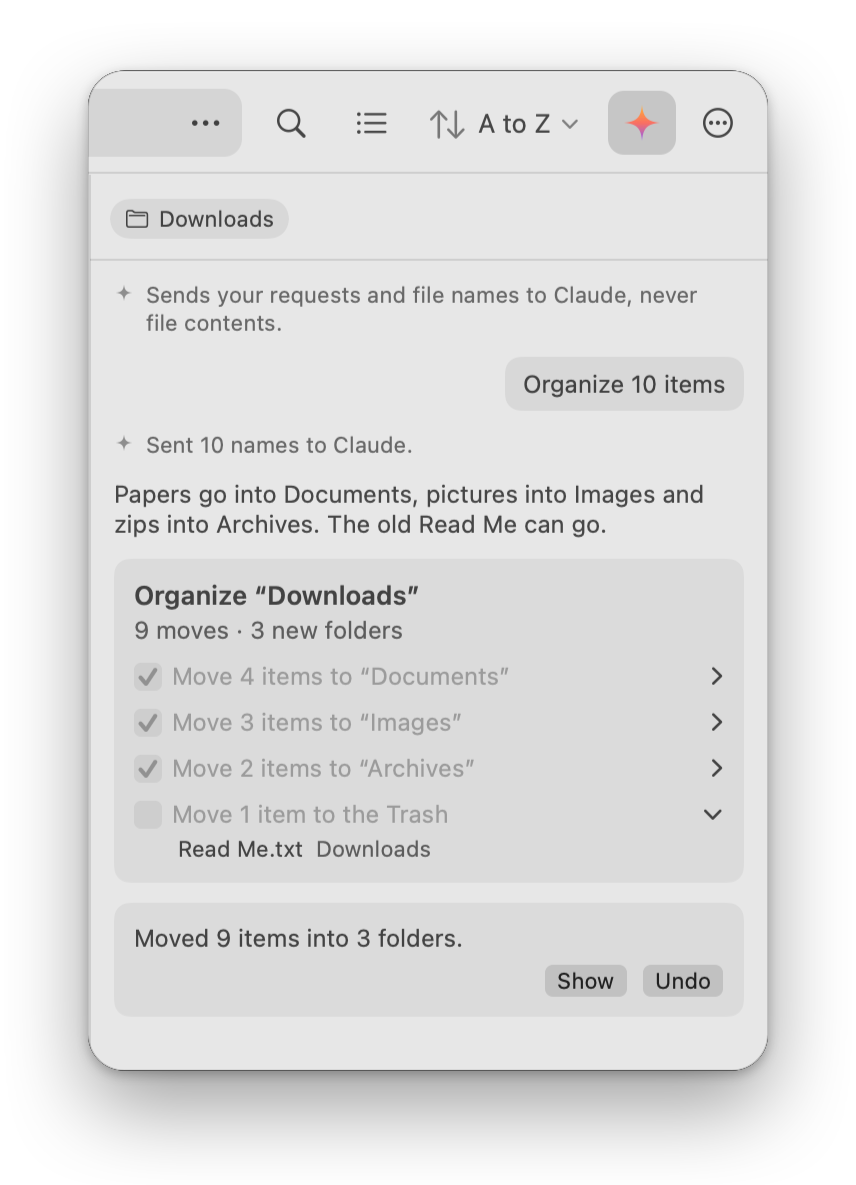
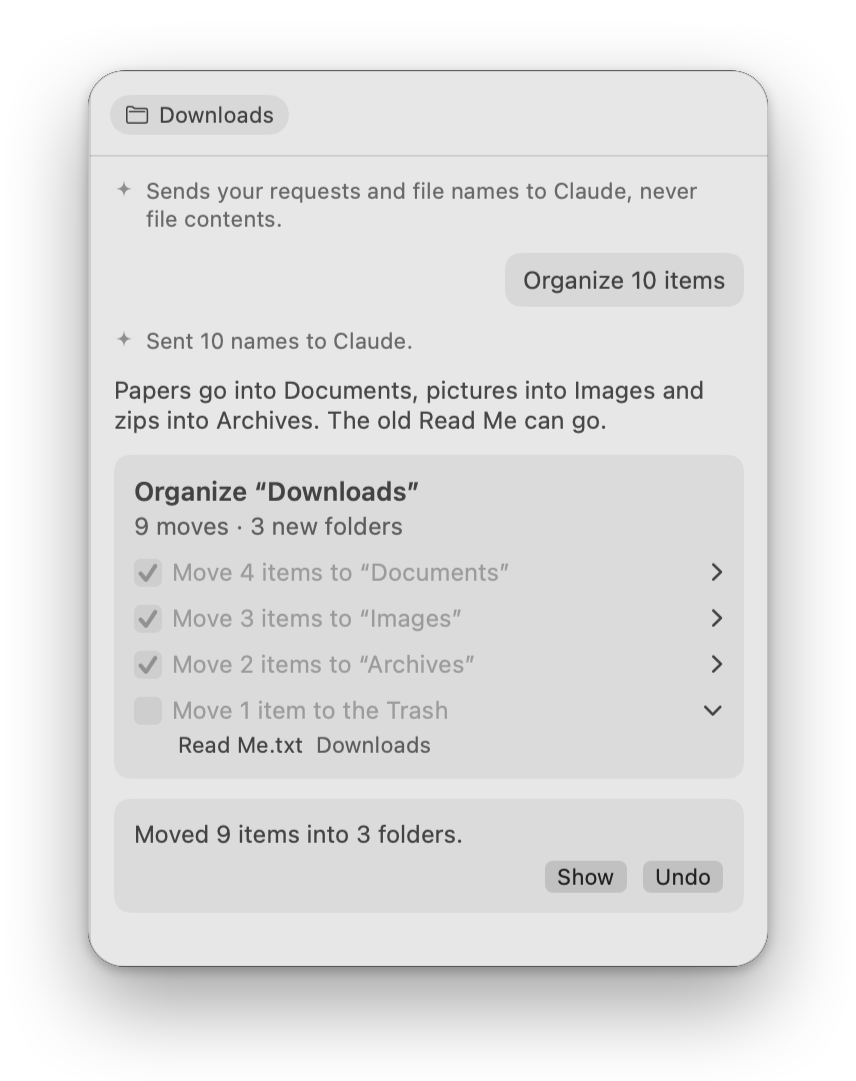
README: Done opens the panel, fall invoices in AI search, plan crops below the header, no-Trash limit, keychain item name and ai.json key builds; plain run 4 notes and inline reasons

diff --git a/scripts/readme/make_demo_home.swift b/scripts/readme/make_demo_home.swift
@@ -137,7 +137,7 @@ write("""
 write("Ideas\n\n1. A calmer header\n2. Folders apart from files in Recent\n3. Smooth list animations\n", to: "Documents/Ideas.txt")
 write("Month,Design,Engineering,Research\nJanuary,1200,3400,800\nFebruary,1350,3600,950\nMarch,1500,3550,1020\n", to: "Documents/Budget 2027.csv")
 let invoices = folder("Documents/Invoices")
-for (index, month) in ["August", "September", "October"].enumerated() {
+for (index, month) in ["September", "October", "November"].enumerated() {
     pdf(title: "Invoice \(1042 + index)", subtitle: "\(month) 2026 · Studio Maple", accent: 0x5E5CE6, pages: 1, chart: false,
         to: invoices.appendingPathComponent("Invoice \(month).pdf"))
 }
@@ -215,6 +215,10 @@ let pinnedDates: [String: Date] = [
     "Documents/Product Roadmap.pdf": day(1, 11, 5),
     "Downloads/Concert Poster.jpg": day(2, 19, 30),
     "Downloads/Boarding Pass.pdf": day(3, 7, 55),
+    // The fall's invoices, each dated in step with its name, for AI search's picture.
+    "Documents/Invoices/Invoice November.pdf": day(2, 10, 15),
+    "Documents/Invoices/Invoice October.pdf": day(25, 14, 30),
+    "Documents/Invoices/Invoice September.pdf": day(48, 9, 20),
 ]
 let homePath = home.resolvingSymlinksInPath().path
 if let walker = manager.enumerator(at: home, includingPropertiesForKeys: nil) {

diff --git a/README.md b/README.md
@@ -42,7 +42,7 @@ Helm shows the plan before anything happens: each group of changes, with a tick 
 
 Turn on the spark in the search field and describe the file. The model plans the searches, Helm runs them on your Mac, and the status bar says how it read your words. Point at a result to see why it matched.
 
-<img src="docs/images/ai-search-dark.png" alt="AI search from Home for the invoices from this fall: invoice PDFs in the grid, and the status bar reading how the request was understood">
+<img src="docs/images/ai-search-dark.png" alt="AI search from Home for the invoices from this fall: the November, October and September invoice PDFs, newest first, and the status bar reading 3 matches, PDF, “invoice”, modified 15 Sep to 14 Nov">
 
 ## How it works
 
@@ -79,13 +79,14 @@ Helm connects only to the AI provider you choose, and only while AI mode is on. 
 | Ollama, LM Studio | Loopback, `127.0.0.1`, on this Mac. Ports 11434 and 1234 unless you change them |
 | Other | The https address you type |
 
-**Keys.** Each key is saved in your Mac's keychain, never in a file, a log or a picture. Removing the app doesn't remove them: click **Remove Key** in Settings › AI first, or delete the `com.helm.filemanager.ai-key` items in Keychain Access. Helm is signed ad hoc, so macOS may ask for your keychain password after an update.
+**Keys.** Each key is saved in your Mac's keychain, never in a file, a log or a picture. Removing the app doesn't remove them: click **Remove Key** in Settings › AI first, or delete the items named **Helm AI key** in Keychain Access (their place is `com.helm.filemanager.ai-key`). Helm is signed ad hoc, so macOS may ask for your keychain password after an update.
 
 Keys are made on each provider's site: [Claude](https://platform.claude.com), [OpenAI](https://platform.openai.com/api-keys), [Gemini](https://aistudio.google.com/apikey) and [Grok](https://console.x.ai). On Gemini's free tier, Google may use what you send to improve its products.
 
 **Limits.**
 
 - **No downloads in cloud folders.** A file that isn't downloaded is left out of any change that needs its contents, and Helm says how many.
+- **Places with no Trash**, such as some servers: copies and new folders there can't be undone, and the plan says so before you press Apply.
 - **Small local models** can miss files in big folders. Many load a small context by default.
 - **A mirrored cloud folder with no shortcut reads as This Mac.** A sync app that keeps a plain folder in step and marks nothing, such as an older Dropbox, isn't recognized, so the plan won't say that changes sync.
 - **Folders outside the home folder and the volumes** can't be used, such as `/opt` or `/usr/local`. AI mode works in your home folder, on disks under `/Volumes`, and in the Shared folder.
@@ -103,7 +104,7 @@ What Helm keeps stays on your Mac, in `~/Library/Application Support/Helm`:
 | `session.json` | Your windows and tabs, only while **Reopen windows and tabs** is on. |
 | `bookmarks.json`, `stars.json`, `sidebar.json`, `tag-catalog.json` | Your sidebar and tags. A star or bookmark you remove leaves nothing in them. |
 | `view-options.json` | Views you set for particular folders. |
-| `ai.json` | AI mode's provider, models, ports and the address you typed for Other. Never a key, a folder or a conversation. |
+| `ai.json` | AI mode's provider, models, ports, the address you typed for Other, and which build of Helm saved each key. Never a key, a folder or a conversation. |
 | `trash-origins.json` | Where trashed items came from, for Put Back. A record goes when its item leaves the Trash through Helm, or at Helm's next launch once it sees the item is gone. Without Full Disk Access Helm can't look in the Trash, so a Trash emptied in Finder leaves its records, up to 1,000. |
 
 Settings live in `~/Library/Preferences/com.helm.filemanager.dev.plist`. To remove everything, first click **Restore Finder** in Settings › General and turn off **Show next to Finder in the Dock** and **Open at login**. Click **Remove Key** in Settings › AI. Then quit Helm and delete that file and the folder above.
@@ -127,7 +128,7 @@ Helm is an early preview for macOS 14 Sonoma or later, on Apple silicon or Intel
 3. **Drag Helm to Applications.** Open the disk image and drag Helm onto the Applications folder beside it, then eject the disk image.
 4. **Open it the first time.** Helm isn't notarized yet, so macOS stops it once. On macOS 15 and later, click **Done**, open **System Settings › Privacy & Security**, scroll to **Security**, click **Open Anyway** next to the note about Helm, and confirm with your password. On macOS 14, Control-click Helm in Applications, choose **Open**, then **Open** again. [Why it isn't notarized](docs/RELEASING.md#why-helm-isnt-notarized-yet).
 5. **Set it up.** Helm opens one setup screen. Leave **Use Helm instead of Finder** and **Full Disk Access** checked and click **Set Up**, or click **Not Now** to change nothing. Opened from the disk image, Helm offers to move itself to Applications first. **Help › Set Up Helm…** brings the screen back.
-6. **Turn on AI mode**, if you want it. The AI Mode screen comes next: switch it on, pick a provider, paste your key or start Ollama or LM Studio, and click **Done**. Then press the spark at the top right to open the panel. Close the screen any other way and AI mode stays off.
+6. **Turn on AI mode**, if you want it. The AI Mode screen comes next: switch it on, pick a provider, paste your key or start Ollama or LM Studio, and click **Done**. The panel opens. Close the screen any other way and AI mode stays off.
 
 Helm is signed ad hoc, so macOS treats each new version as a new app. After an update, open it as in step 4 again, and turn Full Disk Access back on: remove Helm from the list with − and add it back with +.
 

diff --git a/docs/handoff/MAC_RUN_4.md b/docs/handoff/MAC_RUN_4.md
@@ -2,7 +2,7 @@
 
 **Status: Helm is now an agentic file manager. AI mode is built, checked on fixtures with a scripted model, and off until turned on. No real provider, key, cloud folder or server was used, and no person has tried it yet; the list under "Needs Huseyn's Mac" is all not verified. The version is 0.2. Nothing was pushed, installed or released.**
 
-Run on 2026-11-12 to 14, on the branch `agentic/merge` in a scratch worktree. Huseyn's words and the choices made for him are in [`OWNER_RULINGS.md`](OWNER_RULINGS.md#ai-mode-mac-run-4-2026-11-12-and-13).
+Run on 2026-11-12 to 14, on the branch `agentic/merge`. Huseyn's words and the choices made for him are in [`OWNER_RULINGS.md`](OWNER_RULINGS.md#ai-mode-mac-run-4-2026-11-12-and-13).
 
 ## What Huseyn asked
 
@@ -29,7 +29,7 @@ Run on 2026-11-12 to 14, on the branch `agentic/merge` in a scratch worktree. Hu
 - **Plans:** the model proposes, Helm checks every step, and the card shows each group with a tick and its full list. Trash, and changes that reach a place that syncs or is shared, start unticked. Apply runs through Helm's own operations, so conflicts keep both, removals go to the Trash, and one Undo puts it all back. Stop works between two steps.
 - **Remote and cloud folders:** one classifier names the place on the chip and in the plan's notes. Every agent read and every Apply runs with macOS's downloads switched off, so nothing is fetched.
 - **AI search:** the field's spark turns it on. The model plans up to six searches, Helm runs them on the Mac and asks the model to rank the matches. Each result's tooltip says why it matched.
-- **The AI Mode screen** after setup, and **Settings › AI**, sharing one model. Done is the only way to leave AI mode on.
+- **The AI Mode screen** after setup, and **Settings › AI**, sharing one model. Done is the only way to leave AI mode on, and it opens the panel in the window in front.
 - **One view button** in place of the Grid and List segments.
 - **Privacy checks** for the new promise: network code in one file, four web addresses, and a binary check that allows only the listed URL-loading calls and addresses.
 - **The README**, rewritten agentic first, with 17 pictures retaken from scripted background runs and a banner and spark drawn by `scripts/readme/make_brand.swift` from the unchanged app icon.
@@ -40,21 +40,21 @@ All on this Mac, on fixtures, with Helm's windows invisible and its networking b
 
 | Check | Result |
 |---|---|
-| `swift test`, whole suite, after the last interface fixes (67cba42) | 2,902 tests. One failure under load, `testCutInOneWindowAndPasteInAnotherMoves`, passed twice alone |
-| `HelmAgentTests` alone, after the live wiring | 532 tests, 0 failures; 536 after the review fixes |
+| `swift test`, whole suite, after the last fixes | 2,907 tests. One failure under load, `testRenameAndTrashInsideAnOpenFolderKeepASelection`, passed alone |
+| `HelmAgentTests` alone, after the live wiring | 532 tests, 0 failures; 536 after the security fixes |
 | Gate, `scripts/rebuild/run_all.sh` (da68a5d) | exit 0, every check passes, 2,295 portable tests, `HelmAgent` built and its tests run |
 | `bash scripts/static_checks.sh` | 434 Swift files, 0 errors; privacy check, 439 files, 0 problems |
 | Script tests | 51 in `scripts`, 37 in `scripts/rebuild` |
-| Full smoke, Debug | 1,788 checks passed. Two thumbnail time limits failed under load and passed alone |
+| Full smoke, Debug, after the last fixes | 1,795 checks passed, none failed |
 | Smoke with the shipped wiring and AI mode off (`HELM_SMOKE_AGENT=live`) | 1,544 checks passed; no model client was built |
 | Smoke with the shipped wiring and AI mode on (`HELM_SMOKE_AGENT=denied`) | Passed: the sandbox stopped HelmDev at its first request, to Ollama on 127.0.0.1 |
 | Release build (`make_release.sh`, ad hoc) and `check_binary_privacy.sh` | All nine checks pass: 4 provider addresses, 15 URL session calls, all listed, no build paths |
 | Full smoke on the Release build | 1,788 checks passed; the only failure is the known 14-point band (run 3, Open 6) |
-| Final review: security, privacy and product, each with a second reader | 17 findings kept; the one must and 11 shoulds fixed, the rest below |
-| Interface review on both SDKs | 60 findings, 34 fixes; 31 shown working by a picture or a test. The three dots are whole at every width from 640 to 1,600 points, light and dark |
+| Security, privacy and product | 17 problems found: 12 fixed, the rest under Open |
+| The interface, every AI mode state on both SDKs | 60 problems found and 34 fixed; 31 of the fixes shown working by a picture or a test. The three dots are whole at every width from 640 to 1,600 points, light and dark |
 | README pictures (`make_readme_images.sh`) | All 17 taken in the background with the network blocked, every step passing, and each picture looked at: fixture names only |
 
-The pictures' run also checks AI mode end to end: the AI Mode screen connects with a stand-in key, the panel's three suggestions read "Organize 10 items", the plan reads "9 moves · 3 new folders" with the Trash group off, Apply moves 9 items, Undo puts every file back, and AI search gives Invoice October.pdf the reason "Name has “invoice” · PDF".
+The pictures' run also checks AI mode end to end: the AI Mode screen connects with a stand-in key, the panel's three suggestions read "Organize 10 items", the plan reads "9 moves · 3 new folders" with the Trash group off, Apply moves 9 items, Undo puts every file back, and AI search finds the three fall invoice PDFs, newest first, and gives Invoice October.pdf the reason "Name has “invoice” · PDF".
 
 ## Needs Huseyn's Mac
 

diff --git a/docs/handoff/OWNER_RULINGS.md b/docs/handoff/OWNER_RULINGS.md
@@ -166,29 +166,29 @@ What was built and checked is in [`MAC_RUN_4.md`](MAC_RUN_4.md).
 
 ### Delegated choices in run 4
 
-Huseyn can overrule any of these. The reasons are in the design notes of the run.
+Huseyn can overrule any of these. Each one's reason is in its last column.
 
 | Topic | Choice | Why |
 |---|---|---|
-| Off by default | **AI mode is off until turned on, and no network client exists while it's off.** | Helm's promise becomes: it connects only to the provider you chose, and only while AI mode is on. |
-| Separate base | **`HelmAgent` can reach the network but can't change or open a file. HelmUI applies plans.** | The module that talks to a model has no way to touch the disk. |
+| Off by default | **AI mode is off until turned on, and no network client exists while it's off.** | Helm then connects only to the provider you chose, and only while AI mode is on. |
+| Separate base | **`HelmAgent` can reach the network but can't change or open a file. HelmUI applies plans.** | The module that talks to a model can't touch the disk. |
 | Keys | **The login keychain, one key per provider and host.** | A changed `ai.json` can't send a saved key to another host. |
 | What is sent | **Names and details only. Reading inside files is not built.** | Contents never leave the Mac. |
-| Folders | **The folder on show plus up to seven added ones, inside the home folder, `/Volumes` or the Shared folder. Added folders aren't saved.** | An allow list can't miss a system place, and nothing becomes standing access. |
+| Folders | **The folder on show plus up to seven added ones, inside the home folder, `/Volumes` or the Shared folder. Added folders aren't saved.** | An allow list can't miss a system place or leave standing access. |
 | Tools | **Three: list a folder, find items, propose changes. Items are named by ids Helm issues, never by path.** | No path parsing and no escapes. |
-| Plans | **Nothing changes until Apply. Trash, and changes that reach a place that syncs or is shared, start unticked. Conflicts keep both. No delete, no shell, no web tool. 1,000 changes at most.** | Nothing is destroyed or overwritten, and every change can be seen first. |
+| Plans | **Nothing changes until Apply. Trash, and changes that reach a place that syncs or is shared, start unticked. Conflicts keep both. No delete, no shell, no web tool. 1,000 changes at most.** | Nothing is destroyed or overwritten unseen. |
 | Undo | **One Apply is one Undo. An undone plan can't be redone.** | A redo would run the plan again without Apply's checks. |
-| Cloud folders | **Never download. Files that aren't downloaded are left out, with a count.** | A wrong guess fails with nothing fetched. See question 1 in `MAC_RUN_4.md`. |
+| Cloud folders | **Never download. Files that aren't downloaded are left out, with a count.** | A wrong guess then fails with nothing fetched (question 1 in `MAC_RUN_4.md`). |
 | Panel | **A column 340 points wide under the header, shut at every launch. Opening it hides the sidebar first, then widens the window if the files need room.** | The header and today's layout stay as they were. |
-| Spark | **Opens the panel when a model is ready, and the AI Mode screen otherwise.** | One door for "not ready". |
-| Commands | **`/add` and `/clear`. A path typed alone adds a folder. A server address gets one Connect line and goes to macOS.** | Two commands cover it; macOS does the sign-in. |
+| Spark | **Opens the panel when a model is ready, and the AI Mode screen otherwise. Done on that screen opens the panel.** | One door for "not ready". |
+| Commands | **`/add` and `/clear`. A path typed alone adds a folder. A server address gets one Connect line and goes to macOS.** | Two commands cover it, and macOS does the sign-in. |
 | Suggestions | **Three, worked out on the Mac with no model: Organize, Move everything to…, Copy everything to…** | Huseyn's three examples, shown whenever the panel opens. |
 | AI search | **Two model calls at most. The model plans searches, Helm runs them, and the reasons are facts Helm writes, shown as each result's tooltip.** | A hostile file name can only reorder results. |
 | Consent line | **"Sends your requests and file names to {destination}, never file contents."** On the AI Mode screen, in Settings and at the top of each thread. | One sentence says what is sent and to whom. |
 | Claude | **No fallback model and no beta header.** | The person picked the model. |
-| OpenAI's first model | **`gpt-6-astra`.** | The vendor's stated starting point. One constant to change. |
+| OpenAI's first model | **`gpt-6-astra`.** | It's the vendor's stated starting point, and one constant to change. |
 | Model menu | **The panel shows the model's name, which opens Settings › AI.** | Choosing a model in the panel would need a new request path. |
-| Version | **0.2.** | Huseyn named no other. The About line still reads "Finder underneath, Nautilus on top." |
+| Version | **0.2.** The About line still reads "Finder underneath, Nautilus on top." | Huseyn named no other. |
 
 ## Ruled but not built yet
 

diff --git a/docs/releases/0.2.md b/docs/releases/0.2.md
@@ -1,7 +1,7 @@
 Helm is now an agentic file manager. Ask it to organize, move and find your files. Nothing changes until you press Apply.
 
 - **AI mode**, off until you turn it on. The spark at the top right opens the AI panel beside your files, with three suggestions for the folder on show.
-- **Plan, then Apply.** Every change shows first, in groups you can untick. Moving to the Trash starts unticked. One Undo puts everything back.
+- **Plan, then Apply.** Every change shows first, in groups you can untick. Moving to the Trash starts unticked. One Undo puts everything back, except copies and new folders where there is no Trash.
 - **Find with AI.** Describe a file in the search field. The model plans the searches, and Helm runs them on your Mac.
 - **Your choice of model.** Claude, OpenAI, Gemini and Grok with your own key, Ollama and LM Studio on your Mac, or any OpenAI-compatible API.
 - **Only the folders you give it.** The folder on show, plus any you add with `/add` or a drop. `/clear` starts over.
